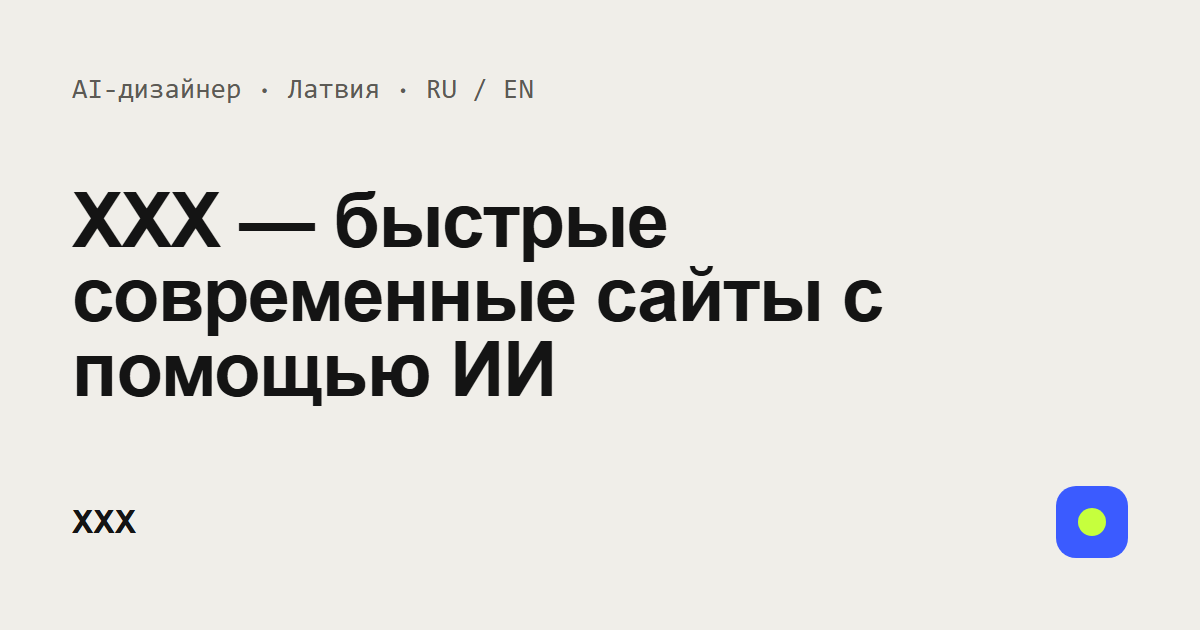
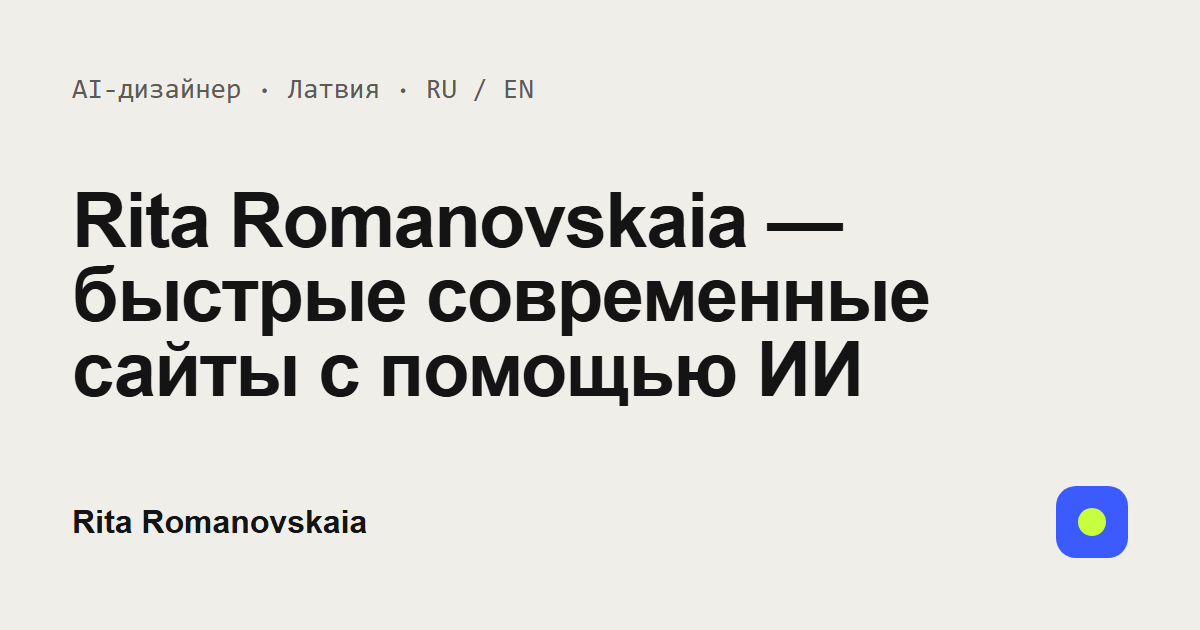
content: name, photo, Instagram, WhatsApp and email; remove Telegram channel

Changed region(s): [[0.0617, 0.3016, 0.7708, 0.6333], [0.0617, 0.8143, 0.3083, 0.8444]]

diff --git a/src/i18n/ru.ts b/src/i18n/ru.ts
@@ -1,7 +1,7 @@
 export const ru = {
   meta: {
-    name: 'XXX',
-    title: 'XXX — быстрые современные сайты с помощью ИИ',
+    name: 'Rita Romanovskaia',
+    title: 'Rita Romanovskaia — быстрые современные сайты с помощью ИИ',
     description: 'Готовые сайты для малого бизнеса и экспертов, адаптированные под вас за несколько дней. AI-дизайнер из Латвии, RU / EN.',
     altLabel: 'EN',
     altName: 'English version',
@@ -26,7 +26,7 @@ export const ru = {
     secondary: 'Смотреть шаблоны ↓',
     follow: 'Подписаться на фишки →',
     trust: 'Этот сайт — мой первый кейс: Lighthouse XXX/100 · без cookie · 2 языка',
-    imageAlt: 'XXX — фото',
+    imageAlt: 'Rita Romanovskaia — портрет',
   },
   showcase: {
     title: 'Готовые сайты — выберите основу',
@@ -61,9 +61,9 @@ export const ru = {
   },
   about: {
     title: 'Обо мне',
-    text: 'Привет! Я XXX, AI-дизайнер из Латвии. Начинала с сайтов на Tilda, а теперь делаю их вместе с искусственным интеллектом: так быстрее, а сайты получаются лёгкими и современными. Скажу честно: я в начале пути. Поэтому показываю процесс открыто и беру каждый проект как свой главный кейс.',
+    text: 'Привет! Меня зовут Rita Romanovskaia, я AI-дизайнер из Латвии. Начинала с сайтов на Tilda, а теперь делаю их вместе с искусственным интеллектом: так быстрее, а сайты получаются лёгкими и современными. Скажу честно: я в начале пути. Поэтому показываю процесс открыто и беру каждый проект как свой главный кейс.',
     facts: ['Tilda → вайбкодинг', 'Русский, английский', 'Онлайн, по всему миру'],
-    imageAlt: 'XXX за работой',
+    imageAlt: 'Rita Romanovskaia, AI-дизайнер',
   },
   pricing: {
     title: 'Сколько стоит',
@@ -104,7 +104,7 @@ export const ru = {
     lead: 'Отвечу в течение дня. Пишите туда, где вам удобнее.',
     name: 'Как вас зовут',
     contact: 'Как с вами связаться',
-    contactHint: 'Instagram, WhatsApp, Telegram или email',
+    contactHint: 'Instagram, WhatsApp или email',
     message: 'Коротко о задаче',
     messageHint: 'Например: сайт для кофейни на основе шаблона «Кафе»',
     consentBefore: 'Согласен(на) на обработку данных для ответа на запрос. ',
@@ -120,7 +120,7 @@ export const ru = {
     title: 'Политика конфиденциальности',
     updated: 'Обновлено: ноябрь 2026',
     sections: [
-      { h: 'Кто обрабатывает данные', p: 'XXX, Латвия. Связаться по вопросам данных: XXX.' },
+      { h: 'Кто обрабатывает данные', p: 'Rita Romanovskaia, Латвия. Связаться по вопросам данных: imanta111@gmail.com.' },
       { h: 'Какие данные', p: 'Только то, что вы указываете в форме: имя, способ связи и описание задачи.' },
       { h: 'Зачем', p: 'Чтобы ответить на ваш запрос и обсудить проект. Основание — ваше согласие (ст. 6(1)(a) GDPR).' },
       { h: 'Где хранятся', p: 'Заявки обрабатывает сервис Netlify (США). Передача данных идёт на основе стандартных договорных условий ЕС.' },

diff --git a/src/i18n/en.ts b/src/i18n/en.ts
@@ -2,8 +2,8 @@ import type { Dict } from './types';
 
 export const en: Dict = {
   meta: {
-    name: 'XXX',
-    title: 'XXX — fast, modern websites built with AI',
+    name: 'Rita Romanovskaia',
+    title: 'Rita Romanovskaia — fast, modern websites built with AI',
     description: 'Ready-made websites for small businesses and experts, tailored to you in a few days. AI designer based in Latvia, RU / EN.',
     altLabel: 'RU',
     altName: 'Русская версия',
@@ -28,7 +28,7 @@ export const en: Dict = {
     secondary: 'See templates ↓',
     follow: 'Follow for tips →',
     trust: 'This site is my first case study: Lighthouse XXX/100 · no cookies · 2 languages',
-    imageAlt: 'XXX — photo',
+    imageAlt: 'Rita Romanovskaia — portrait',
   },
   showcase: {
     title: 'Ready-made websites — pick your base',
@@ -63,9 +63,9 @@ export const en: Dict = {
   },
   about: {
     title: 'About me',
-    text: 'Hi! I’m XXX, an AI designer based in Latvia. I started with websites on Tilda, and now I build them together with artificial intelligence: it’s faster, and the sites come out lighter and more modern. To be honest, I’m at the start of my journey. That’s why I show my process openly and treat every project as my main case study.',
+    text: 'Hi! I’m Rita Romanovskaia, an AI designer based in Latvia. I started with websites on Tilda, and now I build them together with artificial intelligence: it’s faster, and the sites come out lighter and more modern. To be honest, I’m at the start of my journey. That’s why I show my process openly and treat every project as my main case study.',
     facts: ['Tilda → vibe coding', 'Russian, English', 'Online, worldwide'],
-    imageAlt: 'XXX at work',
+    imageAlt: 'Rita Romanovskaia, AI designer',
   },
   pricing: {
     title: 'What it costs',
@@ -106,7 +106,7 @@ export const en: Dict = {
     lead: 'I reply within one day. Message me wherever is easiest for you.',
     name: 'Your name',
     contact: 'How can I reach you',
-    contactHint: 'Instagram, WhatsApp, Telegram or email',
+    contactHint: 'Instagram, WhatsApp or email',
     message: 'Your task in a few words',
     messageHint: 'For example: a website for a coffee shop based on the “Café” template',
     consentBefore: 'I agree to my data being processed to answer my request. ',
@@ -122,7 +122,7 @@ export const en: Dict = {
     title: 'Privacy policy',
     updated: 'Updated: November 2026',
     sections: [
-      { h: 'Who processes your data', p: 'XXX, Latvia. Contact for data questions: XXX.' },
+      { h: 'Who processes your data', p: 'Rita Romanovskaia, Latvia. Contact for data questions: imanta111@gmail.com.' },
       { h: 'What data', p: 'Only what you enter in the form: your name, how to reach you and a description of your task.' },
       { h: 'Why', p: 'To answer your request and discuss the project. Legal basis: your consent (Art. 6(1)(a) GDPR).' },
       { h: 'Where it is stored', p: 'Requests are processed by Netlify (USA). Data transfers rely on the EU Standard Contractual Clauses.' },

diff --git a/src/data/contacts.ts b/src/data/contacts.ts
@@ -1,15 +1,15 @@
-/** Заменить XXX реальными данными (ТЗ §10). */
+/** Контакты (ТЗ §10). Пустая строка — канал не показывается на сайте. */
 export const contacts = {
-  instagram: 'XXX', // ник без @
-  whatsapp: 'XXX', // номер в международном формате без + и пробелов
-  telegram: 'XXX', // ник без @
-  email: 'XXX',
+  instagram: 'ritaexpert50', // ник без @
+  whatsapp: '37122441485', // номер в международном формате без + и пробелов
+  telegram: '', // нет
+  email: 'imanta111@gmail.com',
 };
 
 export const links = {
   instagram: `https://www.instagram.com/${contacts.instagram}/`,
   instagramDm: `https://ig.me/m/${contacts.instagram}`,
   whatsapp: `https://wa.me/${contacts.whatsapp}`,
-  telegram: `https://t.me/${contacts.telegram}`,
+  telegram: contacts.telegram ? `https://t.me/${contacts.telegram}` : '',
   email: `mailto:${contacts.email}`,
 };

diff --git a/tests/e2e/hero-showcase.spec.ts b/tests/e2e/hero-showcase.spec.ts
@@ -36,3 +36,9 @@ for (const [path, soon, follow] of [['/', 'Скоро', /Подписаться/
     });
   });
 }
+
+test('в hero настоящее фото с именем в alt', async ({ page }) => {
+  await page.goto('/');
+  await expect(page.locator('#hero img')).toHaveAttribute('alt', /Rita Romanovskaia/);
+  await expect(page.locator('#hero img')).toHaveAttribute('src', /me\./);
+});

diff --git a/scripts/make-placeholders.py b/scripts/make-placeholders.py
@@ -1,4 +1,4 @@
-"""Генерирует SVG-заглушки для витрины и hero. Запуск: python scripts/make-placeholders.py"""
+"""Генерирует SVG-заглушки для витрины. Запуск: python scripts/make-placeholders.py"""
 from pathlib import Path
 
 root = Path(__file__).resolve().parent.parent / "src" / "assets"
@@ -26,11 +26,4 @@ for name, (a, b) in cols.items():
     )
     (root / "templates" / f"{name}.svg").write_text(svg, encoding="utf-8")
 
-(root / "hero.svg").write_text(
-    '<svg xmlns="http://www.w3.org/2000/svg" width="560" height="640" viewBox="0 0 560 640">'
-    '<rect width="560" height="640" rx="32" fill="#3B5BFF"/>'
-    '<circle cx="280" cy="250" r="110" fill="#F0EEE9" opacity=".9"/>'
-    '<path d="M90 640c20-150 110-230 190-230s170 80 190 230z" fill="#F0EEE9" opacity=".9"/></svg>',
-    encoding="utf-8",
-)
 print("ok")
